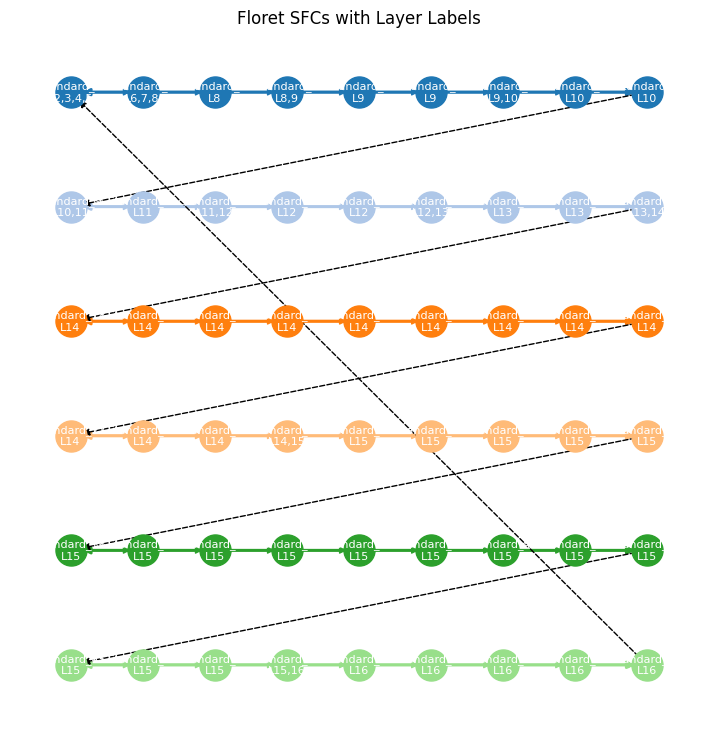
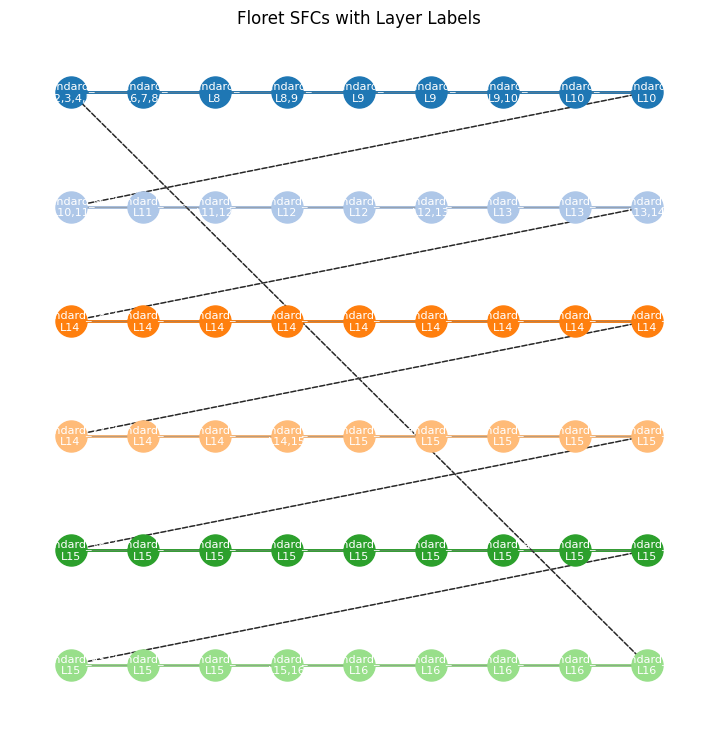
using Graph instead of Directed Graph

diff --git a/Floret.py b/Floret.py
@@ -47,7 +47,7 @@ def build_floret_graph(rows, cols, lam, psi, workload):
     arr_list = [all_nodes[i * psi: (i + 1) * psi] for i in range(lam)]
     arr = np.array(arr_list, dtype=object)
 
-    DG = nx.DiGraph()
+    G = nx.Graph()
     node_labels = {}
 
     layer_names = list(workload.keys())
@@ -67,18 +67,20 @@ def build_floret_graph(rows, cols, lam, psi, workload):
             j += size
             layer_idx += 1
 
+    # Connect all nodes in each SFC
     for i in range(lam):
         for j in range(psi - 1):
-            DG.add_edge(tuple(arr[i][j]), tuple(arr[i][j + 1]))
+            G.add_edge(tuple(arr[i][j]), tuple(arr[i][j + 1]))
+    # Connect head and tail of that SFC
     for i in range(lam):
         head, tail = tuple(arr[i][0]), tuple(arr[i][-1])
-        DG.add_edge(head, tail)
-        DG.add_edge(tail, head)
+        G.add_edge(head, tail)
+    # Connect tail of one SFC to head of the next
     for i in range(lam - 1):
-        DG.add_edge(tuple(arr[i][-1]), tuple(arr[i + 1][0]))
-    DG.add_edge(tuple(arr[-1][-1]), tuple(arr[0][0]))
+        G.add_edge(tuple(arr[i][-1]), tuple(arr[i + 1][0]))
+    G.add_edge(tuple(arr[-1][-1]), tuple(arr[0][0]))
 
-    return DG, arr, pos, node_labels
+    return G, arr, pos, node_labels
 
 def display_floret_graph(DG, pos, label_map, lam, psi, show=True):
     plt.figure(figsize=(9, 9))
@@ -103,6 +105,7 @@ def display_floret_graph(DG, pos, label_map, lam, psi, show=True):
 
     # Labels
     nx.draw_networkx_labels(DG, pos, labels=label_map, font_size=8, font_color="white")
+    nx.draw_networkx_edges(DG, pos, edgelist=DG.edges(), edge_color="gray", style="solid", alpha=0.3)
 
     plt.title("Floret SFCs with Layer Labels")
     plt.axis("off")
@@ -133,7 +136,7 @@ def build_floret_graph_from_results(results):
     arr = [row for row in arr_list]
     arr = [list(map(tuple, row)) for row in arr]
 
-    DG = nx.DiGraph()
+    G = nx.Graph()
     node_labels = {}
 
     # Step 3: Map chiplet names to grid positions
@@ -148,24 +151,37 @@ def build_floret_graph_from_results(results):
                 chiplet_name_map[chiplet] = pos[(x, y)]
                 i += 1
 
-    # Step 4: Build floret links and label nodes
+    # Step 4: Build floret links and label nodes for each SFC
     for i in range(lam):
         for j in range(psi - 1):
-            DG.add_edge(mapping[(i, j)], mapping[(i, j + 1)])
+            G.add_edge(mapping[(i, j)], mapping[(i, j + 1)])
         # Head-tail loop
-        DG.add_edge(mapping[(i, 0)], mapping[(i, psi - 1)])
-        DG.add_edge(mapping[(i, psi - 1)], mapping[(i, 0)])
+        G.add_edge(mapping[(i, 0)], mapping[(i, psi - 1)])
+        # G.add_edge(mapping[(i, psi - 1)], mapping[(i, 0)])
 
+    # Connect Tail of one SFC to the head of the next
     for i in range(lam - 1):
-        DG.add_edge(mapping[(i, psi - 1)], mapping[(i + 1, 0)])
-    DG.add_edge(mapping[(lam - 1, psi - 1)], mapping[(0, 0)])
+        G.add_edge(mapping[(i, psi - 1)], mapping[(i + 1, 0)])
+
+    G.add_edge(mapping[(lam - 1, psi - 1)], mapping[(0, 0)])
+
+    # # Connect each SFC head to all other SFCs
+    # # Now collect every head‐node (the “head” of each SFC row is at column 0)
+    # heads = [ mapping[(i, 0)] for i in range(lam) ]
+    # # (every head connects bidirectionally to every other head)
+    # for idx_a in range(len(heads)):
+    #     for idx_b in range(idx_a+1, len(heads)):
+    #         a = heads[idx_a]
+    #         b = heads[idx_b]
+    #         G.add_edge(a, b)
+    #         G.add_edge(b, a)
 
     # Step 5: Format labels
     label_map = {}
     for chiplet, layers in chiplet_to_layers.items():
         label_map[chiplet] = f"{chiplet}\nL{','.join(map(str, layers))}"
 
-    return DG, chiplet_name_map, label_map, lam, psi
+    return G, chiplet_name_map, label_map, lam, psi
 
 if __name__ == "__main__":
     params = {

diff --git a/mapperV3.py b/mapperV3.py
@@ -667,14 +667,15 @@ def simulate_activations_between_layers(workload, results, G, params):
         activations_kb = workload[i]["activations_kb"]
         packet_bits = activations_kb * 8192  # 1 KB = 8192 bits
 
+        # Get src and dst chiplets to iterate over later
         src_chiplets = layer_to_chiplets.get(src_layer, [])
         dst_chiplets = layer_to_chiplets.get(dst_layer, [])
 
         # Check for intra-chiplet comm
         
-        common_chiplets = set(src_chiplets) & set(dst_chiplets)
-        for chip in common_chiplets:
-            print(f"🧠 NoC Transfer on {chip}: L{src_layer} → L{dst_layer}")
+        # common_chiplets = set(src_chiplets) & set(dst_chiplets)
+        # for chip in common_chiplets:
+        #     print(f"🧠 NoC Transfer on {chip}: L{src_layer} → L{dst_layer}")
 
         # Inter-chiplet traffic: all combinations of src_chiplet → dst_chiplet
         for sc in src_chiplets:
@@ -724,7 +725,7 @@ if __name__ == "__main__":
         { "layer": int(row["Layer #"]), "activations_kb": float(row["Activations(KB)"]) }
         for _, row in df.iterrows()
     ]
-    chip_dist    = [0, 0, 0, 0, 100]# hetOU
+    chip_dist    = [100, 0, 0, 0, 0]# hetOU
     results      = scheduler(workload_csv, chip_dist)
 
     # per-layer details
@@ -751,8 +752,8 @@ if __name__ == "__main__":
     
     # getLayerStats()
     topologies = [
-        # "kite",
-        # "mesh",
+        "kite",
+        "mesh",
         "hexa",
         "floret"
     ]
@@ -788,7 +789,7 @@ if __name__ == "__main__":
         print(f"Topology: {t}")
         logs = simulate_activations_between_layers(workload, results, G, params)
         for log in logs:
-            print(f"L{log['src_layer']} → L{log['dst_layer']}, {log['src_chiplet']} → {log['dst_chiplet']}, {log['activations_kb']} KBs,{log['hops']} hops, {log['energy_joules']:.2e} J")
+            # print(f"L{log['src_layer']} → L{log['dst_layer']}, {log['src_chiplet']} → {log['dst_chiplet']}, {log['activations_kb']} KBs,{log['hops']} hops, {log['energy_joules']:.2e} J")
             total_hops       += log["hops"]
             total_latency_ns += log["latency_ns"]
             total_cycles     += log["cycles"]
